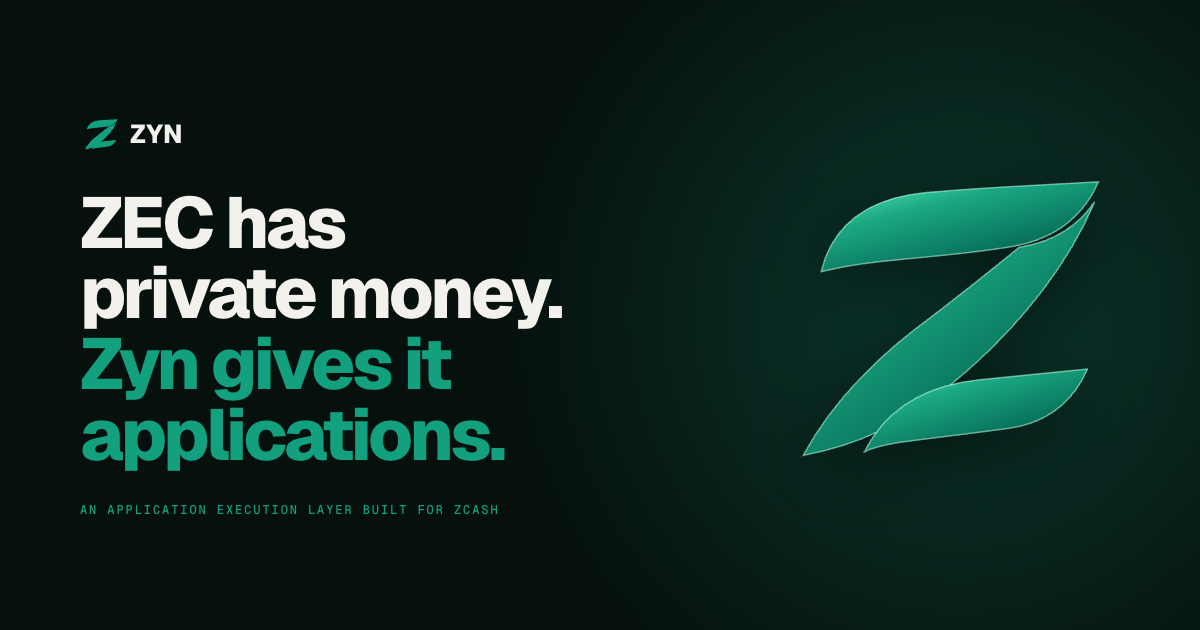
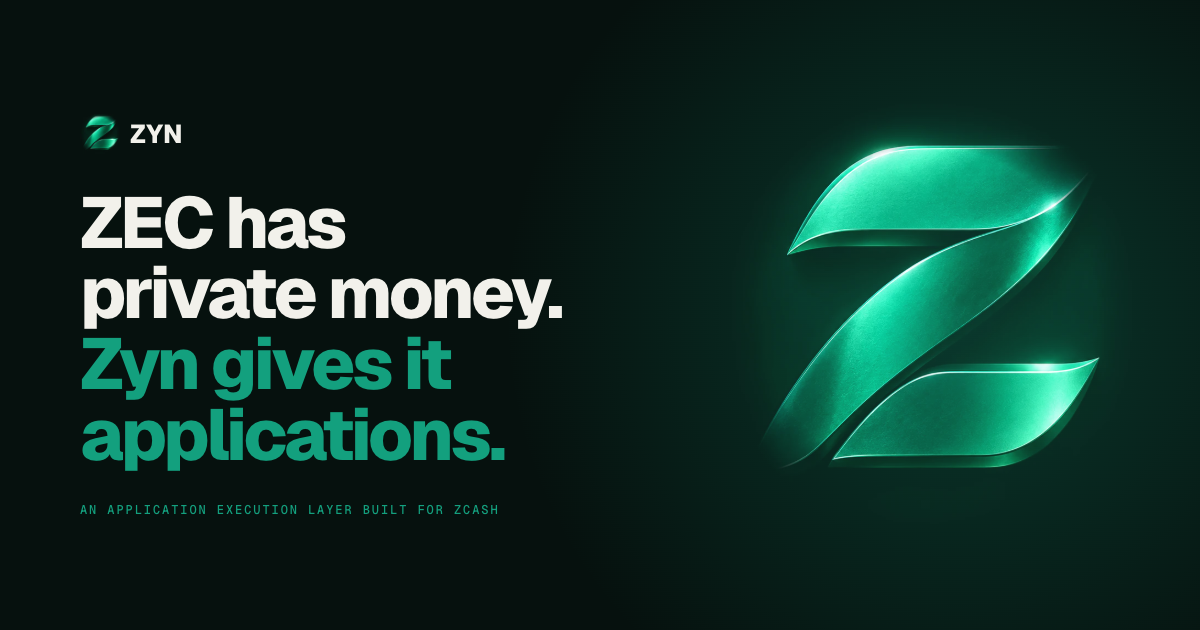
Landing page wears the metallic jade Z; the source mark joins the brand kit
brandkit/zyn-mark-jade.png (1254 px) is the 3D mark the board was made
from; it only lived in the Cave launch video's assets. The site's hero,
header, footer and share image now use it, its black faded to true black
at the edges so it screens cleanly onto the obsidian. The vector stand-in
is gone.

Claude-Session: https://claude.ai/code/session_01CmFevaTjSkgCBKFJUHE9v5

Changed region(s): [[0.6475, 0.2111, 0.925, 0.754], [0.0617, 0.181, 0.0925, 0.2413]]

diff --git a/apps/zyn-site/public/styles.css b/apps/zyn-site/public/styles.css
@@ -32,14 +32,14 @@ a { color: inherit; }
 a:focus-visible, .btn:focus-visible { outline: 2px solid var(--mint); outline-offset: 3px; border-radius: 4px; }
 h1, h2, h3 { margin: 0; font-weight: 700; letter-spacing: -0.03em; text-wrap: balance; }
 p { margin: 0; }
-.defs { position: absolute; width: 0; height: 0; overflow: hidden; }
 
 .label { font: 500 12px/1 var(--mono); letter-spacing: 0.16em; text-transform: uppercase; color: var(--jade-2); }
 
 /* ---- header ---- */
 .top { max-width: var(--max); margin: 0 auto; padding: 22px var(--gutter); display: flex; align-items: center; justify-content: space-between; gap: 24px; }
 .lockup { display: flex; align-items: center; gap: 10px; text-decoration: none; font: 800 20px/1 var(--sans); letter-spacing: 0.02em; }
-.mark-sm { width: 30px; height: 30px; display: block; }
+/* The metallic mark sits on its own black; screen drops the black onto the obsidian. */
+.mark-sm { width: 34px; height: 34px; display: block; mix-blend-mode: screen; }
 .top nav { display: flex; align-items: center; gap: 28px; font-size: 15px; }
 .top nav a { text-decoration: none; color: var(--steel); transition: color .15s; }
 .top nav a:hover { color: var(--mineral); }
@@ -59,8 +59,9 @@ p { margin: 0; }
 .btn.ghost { border: 1px solid var(--line); color: var(--mineral); }
 .btn.ghost:hover { border-color: var(--jade-2); }
 .hero-mark { position: relative; display: grid; place-items: center; }
-.hero-mark::before { content: ''; position: absolute; inset: 8%; border-radius: 50%; background: radial-gradient(closest-side, rgba(19, 160, 126, 0.32), rgba(11, 122, 97, 0.1) 55%, transparent 75%); filter: blur(12px); }
-.mark-lg { position: relative; width: min(100%, 400px); aspect-ratio: 1; filter: drop-shadow(0 18px 36px rgba(0, 0, 0, 0.55)); }
+.hero-mark::before { content: ''; position: absolute; inset: 14%; border-radius: 50%; background: radial-gradient(closest-side, rgba(19, 160, 126, 0.18), transparent 70%); filter: blur(18px); }
+.mark-lg { position: relative; width: min(100%, 440px); height: auto; aspect-ratio: 1; mix-blend-mode: screen; animation: breathe 9s ease-in-out infinite; }
+@keyframes breathe { 50% { transform: translateY(-6px); filter: brightness(1.08); } }
 
 /* ---- live strip ---- */
 .live { max-width: var(--max); margin: 0 auto; padding: 0 var(--gutter); display: grid; grid-template-columns: 1fr 1fr; gap: 1px; }
@@ -139,7 +140,7 @@ p { margin: 0; }
 @media (max-width: 900px) {
   .hero { grid-template-columns: 1fr; }
   .hero-mark { order: -1; justify-items: start; }
-  .mark-lg { width: 150px; }
+  .mark-lg { width: 170px; }
   .hero-mark::before { inset: -20% auto -20% -20%; width: 260px; }
   .live { grid-template-columns: 1fr; }
   .net:first-child { border-radius: 14px 14px 0 0; }
@@ -160,6 +161,6 @@ p { margin: 0; }
 }
 @media (prefers-reduced-motion: reduce) {
   html { scroll-behavior: auto; }
-  .sheen { display: none; }
+  .mark-lg { animation: none; }
   .btn, .go span { transition: none; }
 }

diff --git a/apps/zyn-site/public/index.html b/apps/zyn-site/public/index.html
@@ -14,35 +14,14 @@
   <link rel="icon" href="/assets/favicon-32.png" sizes="32x32">
   <link rel="apple-touch-icon" href="/assets/apple-touch-icon.png">
   <link rel="preload" href="/assets/fonts/Geist-Variable.woff2" as="font" type="font/woff2" crossorigin>
+  <link rel="preload" href="/assets/zyn-mark-3d.webp" as="image" type="image/webp">
   <link rel="stylesheet" href="/styles.css">
   <script src="/main.js" defer></script>
 </head>
 <body>
-  <svg class="defs" aria-hidden="true" focusable="false">
-    <defs>
-      <linearGradient id="jade" x1="0.1" y1="0" x2="0.9" y2="1">
-        <stop offset="0" stop-color="#58e8bb"/>
-        <stop offset="0.3" stop-color="#1aa982"/>
-        <stop offset="0.65" stop-color="#0b7a61"/>
-        <stop offset="1" stop-color="#054a3a"/>
-      </linearGradient>
-      <linearGradient id="sheen" x1="0" y1="0" x2="1" y2="0.35">
-        <stop offset="0.44" stop-color="#eafff7" stop-opacity="0"/>
-        <stop offset="0.5" stop-color="#eafff7" stop-opacity="0.42"/>
-        <stop offset="0.56" stop-color="#eafff7" stop-opacity="0"/>
-        <animateTransform attributeName="gradientTransform" type="translate" values="-1 0; 1 0; 1 0" keyTimes="0; 0.45; 1" dur="7s" repeatCount="indefinite"/>
-      </linearGradient>
-      <g id="z">
-        <path d="M17 38 C20 25 30 17.5 46 16 C62 14.6 80 13.8 94 13 C90 22.5 82 29 70 31 C58 33 44 34 33 35.2 C26 36 21 37 17 38 Z"/>
-        <path d="M72 31.2 C82 29.6 88.5 25 93 18.5 C84 40 66 60 47 74 C36 82 25 86.5 12 89 C19 76 30 64 43 54 C53 46.5 63 38.5 72 31.2 Z"/>
-        <path d="M29 88 C35 76 46 69.5 61 68 C71 67 81 66 91 65 C87 74 80 80 69 81.5 C58 83 45 84.5 38 85.5 C34 86.2 31 87 29 88 Z"/>
-      </g>
-    </defs>
-  </svg>
-
   <header class="top">
     <a class="lockup" href="/" aria-label="Zyn home">
-      <svg viewBox="0 0 100 100" class="mark-sm" aria-hidden="true"><use href="#z" fill="#13a07e"/></svg>
+      <img class="mark-sm" src="/assets/zyn-mark-3d-96.webp" width="96" height="96" alt="">
       <span>ZYN</span>
     </a>
     <nav aria-label="Sections">
@@ -65,10 +44,7 @@
         </div>
       </div>
       <div class="hero-mark" aria-hidden="true">
-        <svg viewBox="0 0 100 100" class="mark-lg">
-          <use href="#z" fill="url(#jade)" stroke="#b8ffe6" stroke-opacity=".55" stroke-width=".4" stroke-linejoin="round"/>
-          <use href="#z" fill="url(#sheen)" class="sheen"/>
-        </svg>
+        <img class="mark-lg" src="/assets/zyn-mark-3d.webp" width="800" height="800" alt="">
       </div>
     </section>
 
@@ -190,7 +166,7 @@
 
   <footer class="foot">
     <div class="foot-lockup">
-      <svg viewBox="0 0 100 100" class="mark-sm" aria-hidden="true"><use href="#z" fill="#13a07e"/></svg>
+      <img class="mark-sm" src="/assets/zyn-mark-3d-96.webp" width="96" height="96" alt="">
       <p><strong>Zyn</strong> — an application execution layer built for Zcash.</p>
     </div>
     <nav aria-label="Zyn apps">
